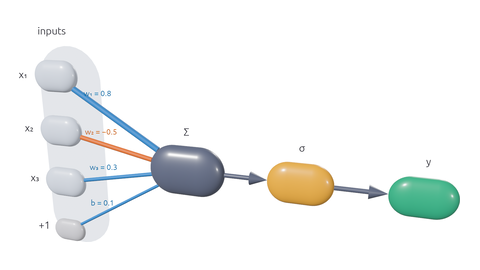
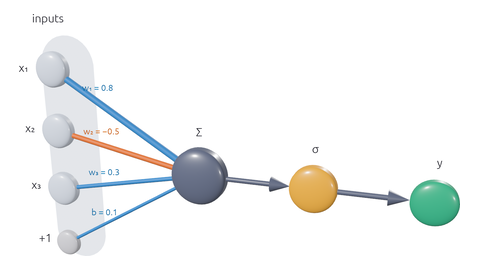
Make perceptron nodes round tablets with a constant radius
The capsule's axis now points at the camera and is flattened along it.
Each node is a circle of constant radius in the diagram's plane, with a
short edge band and domed faces, instead of an elongated pill. A test
checks that the radius is the same in every in-plane direction. Nodes
project to round ellipse presets again. The docs, thumbnail, and README
screenshot are updated.

diff --git a/src/diagram.rs b/src/diagram.rs
@@ -5,8 +5,8 @@
 //! Bevaru adds only composition here. Every mesh is a Bevy primitive
 //! (`Capsule3d`, `Cylinder`, `Cone`, and `Extrusion<Capsule2d>`); this module
 //! picks primitives and places them with transforms, and never generates
-//! vertices itself. Nodes are tablets: the unit capsule squashed front to
-//! back, so their faces dome like a prescription pill (see `docs/presentation/geometry.md`). Nodes, tubes, and
+//! vertices itself. Nodes are round tablets: the unit capsule pointed at the
+//! camera and flattened, so each is a circle with domed faces, like a pill (see `docs/presentation/geometry.md`). Nodes, tubes, and
 //! arrowheads share one unit mesh per kind, whatever the diagram's size.
 
 use std::collections::HashSet;
@@ -49,17 +49,18 @@ pub struct Node {
     pub role: NodeRole,
     /// World position (Z is up).
     pub position: [f32; 3],
-    /// Half the node's height. Nodes are pills lying along the flow (X):
-    /// `PILL_LENGTH` sets how much wider than tall they are, and
-    /// `PILL_DEPTH` how flat (domed faces, like a tablet).
+    /// The node's radius. Nodes are round tablets facing the camera: a
+    /// circle of this radius in the diagram's plane, with a short straight
+    /// edge band (`PILL_BAND`) and domed faces (`PILL_DOME`).
     pub radius: f32,
 }
 
-/// A pill's straight half-length, as a fraction of its radius.
-pub const PILL_LENGTH: f32 = 0.55;
-/// A pill's thickness front to back, as a fraction of its height: the
-/// round capsule squashed into a tablet with domed faces.
-pub const PILL_DEPTH: f32 = 0.5;
+/// The unit capsule's straight half-length, before flattening: it becomes
+/// the tablet's edge band.
+pub const PILL_BAND: f32 = 0.4;
+/// How much the capsule is flattened along its axis (front to back), as a
+/// fraction of the radius: the hemispherical ends become shallow domes.
+pub const PILL_DOME: f32 = 0.35;
 
 impl Node {
     pub fn pos(&self) -> Vec3 {
@@ -67,21 +68,23 @@ impl Node {
     }
 
     /// Half extents: along the flow (X), front to back (Y), and up (Z).
+    /// The outline in the diagram's plane is a circle of the node's radius.
     pub fn half_size(&self) -> Vec3 {
         let r = self.radius;
-        Vec3::new(r * (1.0 + PILL_LENGTH), r * PILL_DEPTH, r)
+        Vec3::new(r, r * PILL_DOME * (1.0 + PILL_BAND), r)
     }
 
-    /// How far from the centre the pill's surface is along `dir` (unit).
-    /// Exact for the squashed capsule: in the pill's own units it is a
-    /// capsule of radius 1 whose axis runs ±`PILL_LENGTH` along X.
+    /// How far from the centre the tablet's surface is along `dir` (unit).
+    /// Exact: in the tablet's own units it is a capsule of radius 1 whose
+    /// axis runs ±`PILL_BAND` front to back (Y). In the diagram's plane
+    /// this is the radius, whatever the direction.
     pub fn surface_distance(&self, dir: Vec3) -> f32 {
         let r = self.radius;
         // Direction per world unit, in unit-capsule coordinates.
-        let u = Vec3::new(dir.x / r, dir.y / (r * PILL_DEPTH), dir.z / r);
-        let along = u.x.abs();
-        let perp = u.y.hypot(u.z);
-        let l = PILL_LENGTH;
+        let u = Vec3::new(dir.x / r, dir.y / (r * PILL_DOME), dir.z / r);
+        let along = u.y.abs();
+        let perp = u.x.hypot(u.z);
+        let l = PILL_BAND;
         if perp < 1e-9 {
             return (l + 1.0) / along.max(1e-9);
         }
@@ -95,16 +98,12 @@ impl Node {
         (b + (b * b - a * (l * l - 1.0)).max(0.0).sqrt()) / a
     }
 
-    /// The shared unit capsule (radius 1, axis along Y) placed as this node:
-    /// axis turned onto X, scaled to the radius, and squashed along Y.
+    /// The shared unit capsule (radius 1, axis along Y) placed as this node.
+    /// Its axis already points front to back, so it is only scaled: by the
+    /// radius in the diagram's plane, and flattened along the axis.
     pub fn pill_transform(&self) -> Transform {
         let r = self.radius;
-        Transform {
-            translation: self.pos(),
-            // Local Y → world X; local X → world −Y (the squashed depth).
-            rotation: Quat::from_rotation_z(-std::f32::consts::FRAC_PI_2),
-            scale: Vec3::new(r * PILL_DEPTH, r, r),
-        }
+        Transform::from_translation(self.pos()).with_scale(Vec3::new(r, r * PILL_DOME, r))
     }
 }
 
@@ -252,11 +251,11 @@ impl Diagram {
                 "act",
                 activation.symbol(),
                 NodeRole::Activation,
-                3.1,
+                2.8,
                 0.0,
                 0.55,
             ),
-            node("y", "y", NodeRole::Output, 6.0, 0.0, 0.5),
+            node("y", "y", NodeRole::Output, 5.4, 0.0, 0.5),
         ]);
         let weighted = |id: &str, from: &str, name: &str, w: f64| Edge {
             id: id.into(),
@@ -522,7 +521,7 @@ impl DiagramAssets {
         });
         Self {
             pill: meshes.add(
-                Capsule3d::new(1.0, 2.0 * PILL_LENGTH)
+                Capsule3d::new(1.0, 2.0 * PILL_BAND)
                     .mesh()
                     .rings(12)
                     .latitudes(32)
@@ -643,9 +642,9 @@ pub struct ProjectedNode {
     pub id: String,
     pub role: NodeRole,
     pub center: [f32; 2],
-    /// Apparent half width and half height of the pill, as fractions of the
-    /// slide's width and height. A pill maps to a stadium shape
-    /// (ECMA-376 `flowChartTerminator`).
+    /// Apparent half width and half height of the tablet, as fractions of
+    /// the slide's width and height. Front-on it is a circle (ECMA-376
+    /// `ellipse`).
     pub half_size: [f32; 2],
 }
 
@@ -805,9 +804,9 @@ mod tests {
     fn on_pill(n: &Node, p: Vec3) -> bool {
         let r = n.radius;
         let q = p - n.pos();
-        let q = Vec3::new(q.x / r, q.y / (r * PILL_DEPTH), q.z / r);
-        let along = q.x.clamp(-PILL_LENGTH, PILL_LENGTH);
-        (Vec3::new(q.x - along, q.y, q.z).length() - 1.0).abs() < 1e-4
+        let q = Vec3::new(q.x / r, q.y / (r * PILL_DOME), q.z / r);
+        let along = q.y.clamp(-PILL_BAND, PILL_BAND);
+        (Vec3::new(q.x, q.y - along, q.z).length() - 1.0).abs() < 1e-4
     }
 
     #[test]
@@ -832,14 +831,20 @@ mod tests {
             let d = dir.normalize();
             assert!(on_pill(&n, n.pos() + d * n.surface_distance(d)), "{dir}");
         }
+        // A constant radius in the diagram's plane: every in-plane direction.
+        for k in 0..12 {
+            let a = k as f32 * std::f32::consts::TAU / 12.0;
+            let d = Vec3::new(a.cos(), 0.0, a.sin());
+            assert!((n.surface_distance(d) - n.radius).abs() < 1e-5);
+        }
         // The shared unit capsule, placed, reaches the same extents.
         let t = n.pill_transform();
+        assert!(t.transform_point(Vec3::X).distance(n.pos() + Vec3::X * h.x) < 1e-5);
         assert!(
-            t.transform_point(Vec3::Y * (1.0 + PILL_LENGTH))
-                .distance(n.pos() + Vec3::X * h.x)
+            t.transform_point(-Vec3::Y * (1.0 + PILL_BAND))
+                .distance(n.pos() - Vec3::Y * h.y)
                 < 1e-5
         );
-        assert!(t.transform_point(Vec3::X).distance(n.pos() - Vec3::Y * h.y) < 1e-5);
     }
 
     #[test]
@@ -931,9 +936,10 @@ mod tests {
         assert!(
             p.nodes.iter().all(|n| inside(n.center)
                 && n.half_size[1] > 0.0
-                // Fractions of width vs height: compare in the same units.
-                && n.half_size[0] * 16.0 / 9.0 > n.half_size[1]),
-            "pills are wider than tall"
+                // Fractions of width vs height: in the same units, front-on
+                // tablets are round.
+                && (n.half_size[0] * 16.0 / 9.0 / n.half_size[1] - 1.0).abs() < 0.05),
+            "tablets are round front-on"
         );
         assert!(p.labels.iter().all(|l| inside(l.at)));
         // Left to right: inputs, Σ, activation, output.

diff --git a/openspec/changes/add-3d-presentation-primitives/proposal.md b/openspec/changes/add-3d-presentation-primitives/proposal.md
@@ -3,7 +3,7 @@
 Teaching slides draw neural networks as flat circles and arrows. [#20](https://github.com/buddha314/bevaru/issues/20) asks for the same diagrams rendered spatially, starting with a perceptron that can sit on a slide. It also sets a policy: bevaru must not grow its own geometry engine. It composes existing FOSS primitives and fixes gaps upstream.
 
 A spike on 2026-10-04 found that Bevy 0.19 alone covers the whole perceptron:
-- **Nodes:** `Capsule3d`, squashed into tablet-shaped pills (`Sphere` would also work).
+- **Nodes:** `Capsule3d`, flattened into round tablets with domed faces (`Sphere` would also work).
 - **Weights:** `Cylinder` placed between two points.
 - **Arrowheads:** `Cone`.
 - **Group backdrops:** extruded 2-D primitives.
@@ -18,7 +18,7 @@ The same spike found real gaps worth taking upstream:
 ## What Changes
 
 - **"Perceptron in 3D":** a new lobby experience, in a new *Diagrams* category, plus a `perceptron_3d` example. Three inputs, a weighted sum with bias, an activation, and an output.
-  - **Geometry:** tablet-shaped pills (squashed capsules with domed faces) for nodes, and tubes for weights. Each tube's thickness and colour encode the weight's magnitude and sign. Cones mark direction.
+  - **Geometry:** round tablets (flattened capsules with domed faces) for nodes, and tubes for weights. Each tube's thickness and colour encode the weight's magnitude and sign. Cones mark direction.
   - **Labels:** text projected onto the screen, as the loss-shape axes are.
   - **Camera and capture:** the orbit rig, and a slide-ready framing with no control panels.
 - **A small declarative diagram model:** nodes, edges, labels, and groups, with stable ids. This is the Bevaru-specific "semantics" layer.

diff --git a/docs/presentation/geometry.md b/docs/presentation/geometry.md
@@ -6,8 +6,8 @@ Bevaru composes geometry; it does not generate it. This page names the component
 
 | Element | Operation | Performed by | Bevaru's part |
 | ------- | --------- | ------------ | ------------- |
-| Node (input, Σ, σ, y) | pill (tablet) mesh | Bevy `Capsule3d` → `Capsule3dMeshBuilder` (`bevy_mesh`) | one shared unit capsule, turned to lie along the flow and squashed front to back by a `Transform` scale, so its faces dome like a tablet. Bevy's renderer corrects normals for the non-uniform scale |
-| Where a tube meets a node | ray–capsule distance | bevaru (`Node::surface_distance`), closed-form | placement only: where to put the tube's end, not a mesh |
+| Node (input, Σ, σ, y) | round tablet mesh | Bevy `Capsule3d` → `Capsule3dMeshBuilder` (`bevy_mesh`) | one shared unit capsule, its axis pointing at the camera, flattened along that axis by a `Transform` scale. That gives a circle of constant radius in the diagram's plane, a short edge band, and domed faces. Bevy's renderer corrects normals for the non-uniform scale |
+| Where a tube meets a node | ray–capsule distance | bevaru (`Node::surface_distance`), closed-form; in the diagram's plane it is just the radius | placement only: where to put the tube's end, not a mesh |
 | Weight / connection | cylinder mesh | Bevy `Cylinder` → `CylinderMeshBuilder` | one shared unit mesh, placed between two points by a `Transform` (`Quat::from_rotation_arc`) |
 | Arrowhead | cone mesh | Bevy `Cone` → `ConeMeshBuilder` | one shared unit mesh, placed by a `Transform` |
 | Group backdrop (input layer) | 2-D stadium extruded to a slab | Bevy `Capsule2d` + `Extrusion` (`Extrudable for Capsule2dMeshBuilder`) | chooses size and depth; one mesh per group |

diff --git a/README.md b/README.md
@@ -122,7 +122,7 @@ Agents can get the same views through `bevaru-mcp`. `sample_loss_shape` returns 
 
 ![A 3-D perceptron in slide view: inputs, weighted tubes, Σ, σ and y](docs/images/perceptron.webp)
 
-It is built only from Bevy's own primitives: capsules squashed into tablet-shaped nodes, plus cylinders, cones, and an extruded 2-D capsule. Bevaru positions and colours them and generates no geometry of its own. That's deliberate: bevaru composes existing FOSS geometry rather than becoming a shape library, and improves those libraries upstream where they fall short. [`docs/presentation/`](docs/presentation) records how this works:
+It is built only from Bevy's own primitives: capsules flattened into round, domed tablets for the nodes, plus cylinders, cones, and an extruded 2-D capsule. Bevaru positions and colours them and generates no geometry of its own. That's deliberate: bevaru composes existing FOSS geometry rather than becoming a shape library, and improves those libraries upstream where they fall short. [`docs/presentation/`](docs/presentation) records how this works:
 - [geometry provenance](docs/presentation/geometry.md): which crate performs each operation;
 - [upstream gap log](docs/presentation/upstream-gaps.md): what's missing, and where it belongs;
 - [presentation-shape vocabulary](docs/presentation/shape-vocabulary.md): common slide shapes by their ECMA-376 names, mapped onto the FOSS stack;

diff --git a/openspec/changes/add-3d-presentation-primitives/design.md b/openspec/changes/add-3d-presentation-primitives/design.md
@@ -57,8 +57,8 @@ Every mesh comes from Bevy's `Meshable` primitives. Bevaru only places and scale
 
 ### 2. One shared unit mesh per primitive
 The diagram uses one unit capsule, one unit cylinder, and one unit cone.
-- **Nodes are tablets:** the capsule lies along the flow and is squashed front to back by its `Transform` scale. That gives domed faces like a prescription pill, and the scene a clear internal plane.
-- **Attachment:** a closed-form ray–capsule distance places tube ends on the pill's outline.
+- **Nodes are round tablets:** the capsule's axis points at the camera, and its `Transform` scale flattens it along that axis. That gives a circle of constant radius, a short edge band, and domed faces like a prescription pill, and it gives the scene a clear internal plane.
+- **Attachment:** a closed-form ray–capsule distance places tube ends on the rim. In the diagram's plane it is the radius.
 - **Lighting:** a coated (clearcoat) material, plus key, fill, and rim lights, brings out the volume. Each element is a `Transform`, with translation, rotation (`Quat::from_rotation_arc(Vec3::Y, dir)`), and scale. That gives:
 - a fixed number of mesh assets, whatever the diagram's size;
 - less clean-up to leak;

diff --git a/openspec/changes/add-3d-presentation-primitives/tasks.md b/openspec/changes/add-3d-presentation-primitives/tasks.md
@@ -6,7 +6,7 @@
 
 ## 2. 3-D rendering from Bevy primitives
 
-- [x] 2.1 One shared unit mesh each for the capsule (nodes as squashed, tablet-shaped pills), cylinder, and cone; nodes, tubes, and arrowheads as transforms of them (`Quat::from_rotation_arc`), with tubes ending at node surfaces
+- [x] 2.1 One shared unit mesh each for the capsule (nodes as flattened, round tablets with domed faces), cylinder, and cone; nodes, tubes, and arrowheads as transforms of them (`Quat::from_rotation_arc`), with tubes ending at node surfaces
 - [x] 2.2 Weight encoding: Okabe–Ito sign colours and radius from |w|, with a neutral thread at w = 0; the input-layer group as a translucent extruded `Capsule2d` backdrop
 - [x] 2.3 Projected egui labels (nodes, weights), kept inside the view as in `shape_view`, and shown in slide view
 - [x] 2.4 Tests: same mesh-asset count for the perceptron and a larger diagram with the same groups (nodes, tubes, and cones share meshes; each backdrop has its own); tube endpoints lie on node surfaces; sign changes hue and |w| orders radii

diff --git a/docs/presentation/slides.md b/docs/presentation/slides.md
@@ -55,7 +55,7 @@ An exporter maps these to [ECMA-376 presets](shape-vocabulary.md):
 
 | Diagram element | Slide object |
 | --------------- | ------------ |
-| node | `flowChartTerminator` (a stadium, matching the pill), filled with the role colour, at the projected centre and half-size |
+| node | `ellipse` (a circle front-on, matching the tablet), filled with the role colour, at the projected centre and half-size |
 | edge | `straightConnector1`, with `headEnd` for arrows, coloured and weighted by the edge's weight |
 | label | a text box at the projected position |
 | group | `roundRect` behind its members, translucent |

diff --git a/docs/presentation/shape-vocabulary.md b/docs/presentation/shape-vocabulary.md
@@ -64,7 +64,7 @@ G1 (concave polygon meshing) alone unlocks most of the rest; G4 (sweep) unlocks 
 ## Toward an editable 2-D fallback
 
 `Diagram::project` already gives every node, edge, and label a position in slide coordinates. An exporter would write:
-- **nodes** as `flowChartTerminator` (a stadium, the pill's outline);
+- **nodes** as `ellipse` (the tablet's round outline);
 - **edges** as `straightConnector1` with `tailEnd`/`headEnd` arrows;
 - **groups** as `roundRect`;
 - **labels** as text bodies.
